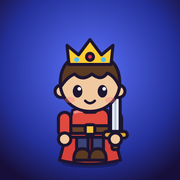
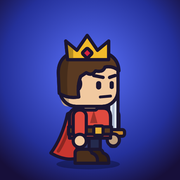
Redraw hero in a 3/4 side view with a striding walk cycle
Squarer heads, determined faces and flat side shading; legs and arms swing as the hero walks.

Claude-Session: https://claude.ai/code/session_01LYE4WDwT1nrWr54T81jAH3

Changed region(s): [[0.2778, 0.1667, 0.7222, 0.9444]]

diff --git a/art.js b/art.js
@@ -1,8 +1,9 @@
-// Questlog cartoon art: a chunky chibi hero, gear and the streak flame, all as inline SVG.
-// Everything shares one thick dark outline so it reads like a mobile game sticker.
+// Questlog cartoon art: a chunky, determined hero seen from a 3/4 angle, plus gear and the streak flame.
+// Flat colours with a darker side tone and one thick dark outline, like a mobile action game sticker.
+// The hero faces right; the "near" limbs are on the viewer's side, the "far" limbs sit behind the body.
 
-const INK = "#1d1530";
-const SW = 3.2; // outline width
+const INK = "#1b1530";
+const SW = 3.4; // outline width
 
 const st = (fill, extra = "") => `fill="${fill}" stroke="${INK}" stroke-width="${SW}" stroke-linejoin="round" stroke-linecap="round" ${extra}`;
 const noStroke = (fill, extra = "") => `fill="${fill}" stroke="none" ${extra}`;
@@ -14,114 +15,135 @@ function shade(hex, amt) {
   return "#" + ((1 << 24) | (r << 16) | (g << 8) | b).toString(16).slice(1);
 }
 
-/* ---------- gear pieces (drawn in hero coordinates) ---------- */
+/* ---------- gear (hero coordinates) ---------- */
+// hand items sit in the far hand at (86, 100); the shield rides on the near arm.
 const ITEMS = {
   sword: () => `
-    <path d="M86.5 44 L91.5 52 L91.5 96 L81.5 96 L81.5 52 Z" ${st("#e6ecf7")}/>
-    <path d="M86.5 50 L86.5 94" stroke="#b9c3d8" stroke-width="2" fill="none"/>
-    <rect x="74" y="94" width="25" height="7" rx="3.5" ${st("#e0a53a")}/>
-    <rect x="83" y="100" width="7" height="13" rx="2" ${st("#7a4a25")}/>`,
+    <path d="M84 40 L90 48 L90 92 L80 92 L80 48 Z" ${st("#e3e9f5")}/>
+    <path d="M85 47 L85 90" stroke="#aeb9cf" stroke-width="2.4" fill="none"/>
+    <rect x="73" y="91" width="24" height="7" rx="2.5" ${st("#c98a2e")}/>
+    <rect x="81.5" y="97" width="7" height="12" rx="2" ${st("#5e3a1f")}/>`,
   staff: () => `
-    <rect x="83.5" y="38" width="6" height="86" rx="3" ${st("#9a6331")}/>
-    <circle cx="86.5" cy="32" r="14" ${noStroke("#6ff0ff", 'opacity=".25"')}/>
-    <circle cx="86.5" cy="32" r="9.5" ${st("#62e6ff")}/>
-    <circle cx="83.5" cy="29" r="3" ${noStroke("#ffffff")}/>`,
+    <rect x="82.5" y="34" width="6" height="90" rx="3" ${st("#8a5a2b")}/>
+    <circle cx="85.5" cy="27" r="14" ${noStroke("#5ff0ff", 'opacity=".22"')}/>
+    <path d="M85.5 16 L95 27 L85.5 38 L76 27 Z" ${st("#4fe3ff")}/>
+    <path d="M85.5 20 L90 27 L85.5 27 Z" ${noStroke("#ffffff", 'opacity=".75"')}/>`,
   shield: () => `
-    <circle cx="30" cy="97" r="16" ${st("#b06f34")}/>
-    <circle cx="30" cy="97" r="11" fill="none" stroke="#f4c542" stroke-width="3"/>
-    <circle cx="30" cy="97" r="4.5" ${st("#f4c542")}/>`,
-  cape: () => `<path d="M42 72 L78 72 L92 124 Q60 132 28 124 Z" ${st("#d8403a")}/>
-    <path d="M60 76 L60 126" stroke="${shade("#d8403a", -0.25)}" stroke-width="3" fill="none"/>`,
-  goldcape: () => `<path d="M42 72 L78 72 L92 124 Q60 132 28 124 Z" ${st("#7b3fc4")}/>
-    <path d="M31 116 Q60 124 89 116 L92 124 Q60 132 28 124 Z" ${st("#f4c542")}/>`,
+    <path d="M38 78 L60 78 L60 98 Q60 112 49 118 Q38 112 38 98 Z" ${st("#9c6230")}/>
+    <path d="M38 78 L44 78 L44 112 Q40 108 38 98 Z" ${noStroke(shade("#9c6230", -0.3))}/>
+    <path d="M38 78 L60 78 L60 98 Q60 112 49 118 Q38 112 38 98 Z" fill="none" stroke="${INK}" stroke-width="${SW}" stroke-linejoin="round"/>
+    <path d="M49 82 L49 112 M41 92 L57 92" stroke="#e8b33a" stroke-width="4" stroke-linecap="round"/>`,
+  cape: () => `<path d="M44 70 L62 70 L56 118 Q38 128 18 116 Q30 100 36 74 Z" ${st("#c8362f")}/>
+    <path d="M40 80 Q34 102 26 114" stroke="${shade("#c8362f", -0.3)}" stroke-width="3.5" fill="none" stroke-linecap="round"/>`,
+  goldcape: () => `<path d="M44 70 L62 70 L56 118 Q38 128 18 116 Q30 100 36 74 Z" ${st("#6a34b0")}/>
+    <path d="M21 112 Q38 120 56.6 112 L56 118 Q38 128 18 116 Z" ${st("#f1b829")}/>`,
   hat: () => `
-    <path d="M38 22 Q50 -6 76 -14 Q70 -4 74 6 Q80 14 84 22 Z" ${st("#5446c9")}/>
-    <ellipse cx="60" cy="23" rx="40" ry="8" ${st("#5446c9")}/>
-    <path d="M42 18 Q60 22 80 18" stroke="#f4c542" stroke-width="4" fill="none" stroke-linecap="round"/>
-    <path d="M62 2 l2.2 4.6 5 .7 -3.6 3.5 .9 5 -4.5 -2.4 -4.5 2.4 .9 -5 -3.6 -3.5 5 -.7 Z" ${noStroke("#ffd84a")}/>`,
+    <ellipse cx="58" cy="17" rx="40" ry="8.5" ${st("#3f3596")}/>
+    <path d="M36 15 Q44 -4 34 -20 Q56 -12 68 2 Q74 9 80 15 Z" ${st("#4a3fb0")}/>
+    <path d="M38 12 Q58 17 78 12" stroke="#e8b33a" stroke-width="4.5" fill="none" stroke-linecap="round"/>`,
   helm: () => `
-    <path d="M27 50 Q27 12 60 12 Q93 12 93 50 L93 58 Q88 60 84 56 L84 40 L36 40 L36 56 Q32 60 27 58 Z" ${st("#b8c3d6")}/>
-    <path d="M36 40 L84 40" stroke="${INK}" stroke-width="${SW}"/>
-    <path d="M40 20 Q60 12 80 20" stroke="#ffffff" stroke-width="3" fill="none" opacity=".6"/>
-    <path d="M60 12 Q58 0 66 -6 Q70 4 64 12 Z" ${st("#e0314b")}/>`,
+    <path d="M26 56 L26 30 Q26 4 58 4 Q92 4 92 30 L92 36 L70 36 Q66 46 66 60 L26 60 Z" ${st("#a9b4c8")}/>
+    <path d="M26 56 L26 30 Q26 12 40 7 Q32 20 34 60 L26 60 Z" ${noStroke(shade("#a9b4c8", -0.28))}/>
+    <path d="M26 56 L26 30 Q26 4 58 4 Q92 4 92 30 L92 36 L70 36 Q66 46 66 60 L26 60 Z" fill="none" stroke="${INK}" stroke-width="${SW}" stroke-linejoin="round"/>
+    <path d="M44 12 Q60 6 78 10" stroke="#ffffff" stroke-width="3" fill="none" opacity=".55" stroke-linecap="round"/>
+    <path d="M40 6 Q30 -8 16 -6 Q26 2 34 12 Z" ${st("#c3283e")}/>`,
   crown: () => `
-    <path d="M38 24 L36 4 L48 14 L60 -2 L72 14 L84 4 L82 24 Z" ${st("#ffcc33")}/>
-    <circle cx="60" cy="16" r="3.6" ${st("#e0314b")}/>
-    <circle cx="46" cy="19" r="2.6" ${noStroke("#4cc3ff")}/><circle cx="74" cy="19" r="2.6" ${noStroke("#4cc3ff")}/>`,
+    <path d="M36 16 L34 -4 L46 6 L57 -10 L68 6 L80 -4 L80 16 Z" ${st("#f2bb2a")}/>
+    <path d="M36 16 L34 -4 L42 3 L42 16 Z" ${noStroke(shade("#f2bb2a", -0.25))}/>
+    <path d="M36 16 L34 -4 L46 6 L57 -10 L68 6 L80 -4 L80 16 Z" fill="none" stroke="${INK}" stroke-width="${SW}" stroke-linejoin="round"/>
+    <rect x="53" y="5" width="8" height="8" rx="1.5" transform="rotate(45 57 9)" ${st("#d8233f")}/>`,
 };
-// Icon framing for each item when shown on its own: [x, y, w, h] of the viewBox.
+// viewBox for each item shown alone: [x, y, w, h]
 const ITEM_BOX = {
-  sword: [62, 40, 50, 76], staff: [62, 14, 50, 112], shield: [8, 75, 44, 44], cape: [22, 66, 76, 70],
-  goldcape: [22, 66, 76, 70], hat: [16, -20, 88, 52], helm: [20, -12, 80, 74], crown: [30, -8, 60, 38],
+  sword: [58, 36, 54, 76], staff: [60, 10, 52, 116], shield: [24, 74, 50, 48], cape: [12, 64, 56, 66],
+  goldcape: [12, 64, 56, 66], hat: [14, -24, 88, 46], helm: [10, -12, 88, 76], crown: [28, -14, 58, 34],
 };
 
-/* ---------- hair (drawn in hero coordinates) ---------- */
+/* ---------- hair (hero coordinates, head spans x 28..90, y 10..66) ---------- */
 function hairBack(style, c) {
-  if (style === "long") return `<path d="M27 44 Q26 10 60 10 Q94 10 93 44 L96 92 Q88 100 80 90 L80 62 L40 62 L40 90 Q32 100 24 92 Z" ${st(c)}/>`;
-  if (style === "ponytail") return `<path d="M84 26 Q108 30 106 62 Q104 80 112 92 Q94 92 92 70 Q90 50 80 40 Z" ${st(c)}/>`;
+  const d = shade(c, -0.22);
+  if (style === "long") return `<path d="M28 30 Q26 8 56 8 L60 66 L44 96 Q30 98 22 88 Q28 72 26 50 Z" ${st(d)}/>`;
+  if (style === "ponytail") return `<path d="M34 22 Q14 22 10 46 Q8 66 16 82 Q26 70 26 56 Q28 42 40 34 Z" ${st(d)}/>`;
+  if (style === "bun") return `<circle cx="36" cy="10" r="12" ${st(d)}/>`;
   return "";
 }
 function hairFront(style, c) {
-  const hi = shade(c, 0.35);
-  const fringe = `<path d="M29 48 Q27 14 60 13 Q93 14 91 48 Q86 36 78 33 Q72 42 62 34 Q52 42 44 34 Q36 37 29 48 Z" ${st(c)}/>
-    <path d="M42 22 Q52 17 62 18" stroke="${hi}" stroke-width="4" fill="none" stroke-linecap="round"/>`;
+  const d = shade(c, -0.22), hi = shade(c, 0.3);
+  // covers the crown and the back of the head, with a fringe falling over the front of the face
+  const cap = `<path d="M27 52 L26 30 Q26 6 58 6 Q90 6 91 28 Q84 22 76 24 Q74 30 66 28 Q62 34 56 30 L50 34 Q46 44 48 56 Q36 58 27 52 Z" ${st(c)}/>
+    <path d="M27 52 L26 30 Q26 12 40 8 Q34 24 36 54 Q30 55 27 52 Z" ${noStroke(d)}/>
+    <path d="M27 52 L26 30 Q26 6 58 6 Q90 6 91 28 Q84 22 76 24 Q74 30 66 28 Q62 34 56 30 L50 34 Q46 44 48 56 Q36 58 27 52 Z" fill="none" stroke="${INK}" stroke-width="${SW}" stroke-linejoin="round"/>
+    <path d="M50 13 Q62 10 74 13" stroke="${hi}" stroke-width="3.5" fill="none" stroke-linecap="round"/>`;
   switch (style) {
-    case "short": return fringe;
-    case "long": return `<path d="M28 50 Q26 12 60 12 Q94 12 92 50 Q88 34 74 30 Q64 40 44 34 Q34 38 28 50 Z" ${st(c)}/>
-      <path d="M44 22 Q54 16 66 18" stroke="${hi}" stroke-width="4" fill="none" stroke-linecap="round"/>`;
-    case "spiky": return `<path d="M28 50 L24 26 L38 30 L38 8 L52 22 L60 2 L68 22 L82 8 L82 30 L96 26 L92 50 Q86 36 76 35 Q60 44 44 35 Q34 36 28 50 Z" ${st(c)}/>
-      <path d="M46 24 L52 16" stroke="${hi}" stroke-width="4" fill="none" stroke-linecap="round"/>`;
-    case "bun": return `<circle cx="60" cy="10" r="12" ${st(c)}/>${fringe}`;
-    case "ponytail": return fringe;
-    default: return `<ellipse cx="48" cy="24" rx="9" ry="4" transform="rotate(-20 48 24)" ${noStroke("#ffffff", 'opacity=".35"')}/>`;
+    case "short": case "bun": case "ponytail": return cap;
+    case "long": return cap + `<path d="M48 56 Q44 70 46 84" stroke="${INK}" stroke-width="${SW}" fill="none" stroke-linecap="round"/>`;
+    case "spiky": return `<path d="M27 54 L24 34 L12 30 L24 22 L16 8 L32 12 L34 -4 L48 8 L58 -8 L66 8 L82 0 L80 14 L94 18 L90 28 Q84 22 76 24 Q74 30 66 28 Q60 34 54 30 Q46 42 48 56 Q36 58 27 54 Z" ${st(c)}/>
+      <path d="M27 54 L24 34 L12 30 L24 22 L16 8 L32 12 L34 -4 L40 8 Q32 24 36 56 Z" ${noStroke(d)}/>
+      <path d="M27 54 L24 34 L12 30 L24 22 L16 8 L32 12 L34 -4 L48 8 L58 -8 L66 8 L82 0 L80 14 L94 18 L90 28 Q84 22 76 24 Q74 30 66 28 Q60 34 54 30 Q46 42 48 56 Q36 58 27 54 Z" fill="none" stroke="${INK}" stroke-width="${SW}" stroke-linejoin="round"/>`;
+    default: return `<path d="M46 16 Q58 12 70 15" stroke="#ffffff" stroke-width="3.5" fill="none" opacity=".35" stroke-linecap="round"/>`;
   }
 }
 
 /* ---------- the hero ---------- */
 // p: { body:"m"|"f", hair, hairColor, skin, tunic, head, back, hand, off }
 export function heroSVG(p, opts = {}) {
-  const skin = p.skin, tunic = p.tunic, tunicDark = shade(tunic, -0.28);
-  const pants = "#3b4377", boot = "#5b3a22";
   const female = p.body === "f";
-  const box = opts.head ? "12 -18 96 96" : "0 -22 120 158";
-  const backItem = p.back && ITEMS[p.back] ? ITEMS[p.back]() : "";
-  const headItem = p.head && ITEMS[p.head] ? ITEMS[p.head]() : "";
-  const handItem = p.hand && ITEMS[p.hand] ? ITEMS[p.hand]() : "";
-  const offItem = p.off && ITEMS[p.off] ? ITEMS[p.off]() : "";
-  const legFill = female ? skin : pants;
-  const leg = (x) => `<rect x="${x}" y="${female ? 106 : 94}" width="12" height="${female ? 14 : 26}" rx="5" ${st(legFill)}/>
-      <path d="M${x - 3} 124 Q${x - 3} 112 ${x + 6} 112 Q${x + 15} 112 ${x + 15} 124 Z" ${st(boot)}/>`;
-  const bottom = female ? 108 : 100;
-  const torso = `<path d="M40 80 Q40 70 50 70 L70 70 Q80 70 80 80 L82 ${bottom - 4} Q82 ${bottom} 77 ${bottom} L43 ${bottom} Q38 ${bottom} 38 ${bottom - 4} Z" ${st(tunic)}/>
-      <path d="M44 74 Q50 72 56 73" stroke="${shade(tunic, 0.35)}" stroke-width="3" fill="none" stroke-linecap="round"/>`;
-  const skirt = female ? `<path d="M40 98 L80 98 L90 116 Q60 124 30 116 Z" ${st(tunic)}/>
-      <path d="M46 104 L42 116 M60 104 L60 119 M74 104 L78 116" stroke="${tunicDark}" stroke-width="2.5" fill="none" stroke-linecap="round"/>` : "";
-  const by = female ? 94 : 88;
-  const belt = `<rect x="38" y="${by}" width="44" height="8" rx="3" ${st("#6b4428")}/><rect x="55" y="${by - 1}" width="10" height="10" rx="2" ${st("#f4c542")}/>`;
-  const armL = `<g class="arm-l"><rect x="27" y="74" width="13" height="26" rx="6.5" ${st(tunic)}/><circle cx="33.5" cy="102" r="6.5" ${st(skin)}/></g>`;
-  const armR = `<g class="arm-r"><rect x="80" y="74" width="13" height="26" rx="6.5" ${st(tunic)}/>${handItem}<circle cx="86.5" cy="102" r="6.5" ${st(skin)}/></g>`;
-  const lash = female ? `<path d="M42.6 48.5 l-3.6 -1.6 M42.4 51.5 l-3.8 .2 M77.4 48.5 l3.6 -1.6 M77.6 51.5 l3.8 .2" stroke="${INK}" stroke-width="2.2" stroke-linecap="round"/>` : "";
+  const skin = p.skin, skinD = shade(skin, -0.2);
+  const tunic = p.tunic, tunicD = shade(tunic, -0.3);
+  const pants = "#343c6e", pantsD = shade(pants, -0.3), boot = "#4a2f1c", bootD = shade(boot, -0.3);
+  const box = opts.head ? "14 -22 92 92" : "-2 -26 124 162";
+  const item = (k) => (k && ITEMS[k] ? ITEMS[k]() : "");
+
+  // legs pivot at the hip; boots point forward (right)
+  const leg = (x, far) => {
+    const lf = female ? (far ? skinD : skin) : (far ? pantsD : pants);
+    return `<rect x="${x}" y="96" width="13" height="22" rx="5" ${st(lf)}/>
+      <path d="M${x - 2} 127 L${x - 2} 116 Q${x - 2} 112 ${x + 4} 112 L${x + 11} 112 Q${x + 15} 112 ${x + 16} 116 Q${x + 22} 118 ${x + 22} 124 L${x + 22} 127 Z" ${st(far ? bootD : boot)}/>`;
+  };
+  const legs = `<g class="leg-f">${leg(58, true)}</g><g class="leg-n">${leg(46, false)}</g>`;
+
+  // torso: front panel plus a darker side panel on the left (the side turned away)
+  const bottom = female ? 104 : 100;
+  const torso = `<path d="M38 78 Q38 68 48 68 L74 68 Q82 68 82 78 L82 ${bottom} L38 ${bottom} Z" ${st(tunic)}/>
+    <path d="M38 78 Q38 68 48 68 L52 68 Q48 76 48 ${bottom} L38 ${bottom} Z" ${noStroke(tunicD)}/>
+    <path d="M38 78 Q38 68 48 68 L74 68 Q82 68 82 78 L82 ${bottom} L38 ${bottom} Z" fill="none" stroke="${INK}" stroke-width="${SW}" stroke-linejoin="round"/>
+    <path d="M64 70 L60 84 L68 84 Z" ${noStroke(tunicD)}/>`;
+  const skirt = female ? `<path d="M37 96 L83 96 L90 114 Q62 122 32 114 Z" ${st(tunic)}/>
+    <path d="M37 96 L48 96 L44 117 Q37 116 32 114 Z" ${noStroke(tunicD)}/>
+    <path d="M37 96 L83 96 L90 114 Q62 122 32 114 Z" fill="none" stroke="${INK}" stroke-width="${SW}" stroke-linejoin="round"/>` : "";
+  const by = female ? 92 : 88;
+  const belt = `<path d="M37 ${by} L83 ${by} L83 ${by + 8} L37 ${by + 8} Z" ${st("#5a3820")}/><rect x="64" y="${by - 1}" width="10" height="10" rx="1.5" ${st("#e8b33a")}/>`;
+
+  // arms pivot at the shoulder
+  const armFar = `<g class="arm-f"><rect x="78" y="70" width="13" height="28" rx="6" ${st(tunicD)}/>${item(p.hand)}<circle cx="85" cy="102" r="6.5" ${st(skinD)}/></g>`;
+  const armNear = `<g class="arm-n"><rect x="42" y="70" width="14" height="30" rx="6.5" ${st(tunic)}/><circle cx="49" cy="103" r="7" ${st(skin)}/>${item(p.off)}</g>`;
+
+  // boxy head turned to the right: ear on the left, both eyes on the right half
   const head = `
-    <rect x="53" y="66" width="14" height="8" rx="3" ${st(skin)}/>
-    <circle cx="30" cy="52" r="6.5" ${st(skin)}/><circle cx="90" cy="52" r="6.5" ${st(skin)}/>
-    <ellipse cx="60" cy="44" rx="31" ry="29" ${st(skin)}/>
-    <ellipse cx="47" cy="52" rx="5" ry="6.6" ${noStroke(INK)}/><ellipse cx="73" cy="52" rx="5" ry="6.6" ${noStroke(INK)}/>
-    <circle cx="48.8" cy="49.4" r="1.9" ${noStroke("#ffffff")}/><circle cx="74.8" cy="49.4" r="1.9" ${noStroke("#ffffff")}/>
-    ${lash}
-    <ellipse cx="39" cy="61" rx="5.5" ry="3.2" ${noStroke("#ff7f7f", `opacity="${female ? 0.55 : 0.35}"`)}/>
-    <ellipse cx="81" cy="61" rx="5.5" ry="3.2" ${noStroke("#ff7f7f", `opacity="${female ? 0.55 : 0.35}"`)}/>
-    <path d="M55 62 Q60 67 65 62" stroke="${INK}" stroke-width="2.6" fill="none" stroke-linecap="round"/>`;
-  const shadow = opts.head ? "" : `<ellipse cx="60" cy="127" rx="30" ry="5" fill="#000" opacity=".28"/>`;
+    <rect x="52" y="60" width="16" height="10" rx="3" ${st(skinD)}/>
+    <rect x="28" y="10" width="62" height="56" rx="17" ${st(skin)}/>
+    <path d="M28 40 L28 27 Q28 10 45 10 L44 10 Q34 30 38 66 L36 66 Q28 66 28 50 Z" ${noStroke(skinD)}/>
+    <rect x="28" y="10" width="62" height="56" rx="17" fill="none" stroke="${INK}" stroke-width="${SW}"/>
+    <ellipse cx="44" cy="42" rx="6" ry="7.5" ${st(skin)}/>
+    <path d="M44 38 Q41 42 44 46" stroke="${skinD}" stroke-width="2.5" fill="none" stroke-linecap="round"/>
+    <path d="M64 33 L74 35" stroke="${INK}" stroke-width="3.6" stroke-linecap="round"/>
+    <path d="M81 35 L87 33" stroke="${INK}" stroke-width="3.6" stroke-linecap="round"/>
+    <rect x="66.5" y="39" width="5.5" height="9" rx="2.7" ${noStroke(INK)}/>
+    <rect x="81" y="39" width="4.5" height="8.5" rx="2.2" ${noStroke(INK)}/>
+    ${female ? `<path d="M66 40 L62.5 37.5 M81 40 L78.5 37.8" stroke="${INK}" stroke-width="2.2" stroke-linecap="round"/>` : ""}
+    <path d="M71 56 L82 55" stroke="${INK}" stroke-width="3" stroke-linecap="round"/>`;
+
+  const shadow = opts.head ? "" : `<ellipse cx="58" cy="128" rx="34" ry="5.5" fill="#000" opacity=".28"/>`;
   return `<svg viewBox="${box}" xmlns="http://www.w3.org/2000/svg" aria-hidden="true" focusable="false">
     ${shadow}
-    <g class="upper">${backItem}${hairBack(p.hair, p.hairColor)}</g>
-    <g class="leg-l">${leg(46)}</g><g class="leg-r">${leg(62)}</g>
+    <g class="upper">${item(p.back)}${hairBack(p.hair, p.hairColor)}${armFar}</g>
+    ${legs}
     <g class="upper">
       ${torso}${skirt}${belt}
-      ${armL}${offItem}${armR}
       ${head}
       ${hairFront(p.hair, p.hairColor)}
-      ${headItem}
+      ${item(p.head)}
+      ${armNear}
     </g>
   </svg>`;
 }

diff --git a/index.html b/index.html
@@ -49,16 +49,14 @@ button:focus-visible,input:focus-visible{outline:3px solid var(--gold);outline-o
 
 /* hero art */
 svg{display:block;width:100%;height:100%;overflow:visible}
-.walking .leg-l{animation:stepL .56s ease-in-out infinite}
-.walking .leg-r{animation:stepR .56s ease-in-out infinite}
-.walking .upper{animation:bob .28s ease-in-out infinite alternate}
-.walking .arm-l{transform-origin:33px 76px;animation:swingL .56s ease-in-out infinite}
-.walking .arm-r{transform-origin:87px 76px;animation:swingR .56s ease-in-out infinite}
-@keyframes stepL{0%,50%,100%{transform:translateY(0)}25%{transform:translateY(-6px)}}
-@keyframes stepR{0%,50%,100%{transform:translateY(0)}75%{transform:translateY(-6px)}}
-@keyframes bob{from{transform:translateY(0)}to{transform:translateY(-2.5px)}}
-@keyframes swingL{0%,100%{transform:rotate(0)}25%{transform:rotate(-12deg)}75%{transform:rotate(10deg)}}
-@keyframes swingR{0%,100%{transform:rotate(0)}25%{transform:rotate(10deg)}75%{transform:rotate(-12deg)}}
+.walking .leg-n{transform-origin:52px 98px;animation:stride .6s ease-in-out infinite}
+.walking .leg-f{transform-origin:64px 98px;animation:stride .6s ease-in-out infinite reverse}
+.walking .arm-n{transform-origin:49px 73px;animation:swing .6s ease-in-out infinite}
+.walking .arm-f{transform-origin:84px 73px;animation:swing .6s ease-in-out infinite reverse}
+.walking .upper{animation:bob .3s ease-in-out infinite alternate}
+@keyframes stride{0%,100%{transform:rotate(24deg)}50%{transform:rotate(-24deg)}}
+@keyframes swing{0%,100%{transform:rotate(-26deg)}50%{transform:rotate(22deg)}}
+@keyframes bob{from{transform:translateY(0)}to{transform:translateY(-3px)}}
 
 /* title screen */
 .title-screen{min-height:calc(100dvh - 140px);display:flex;flex-direction:column;align-items:center;justify-content:center;gap:18px;text-align:center}
